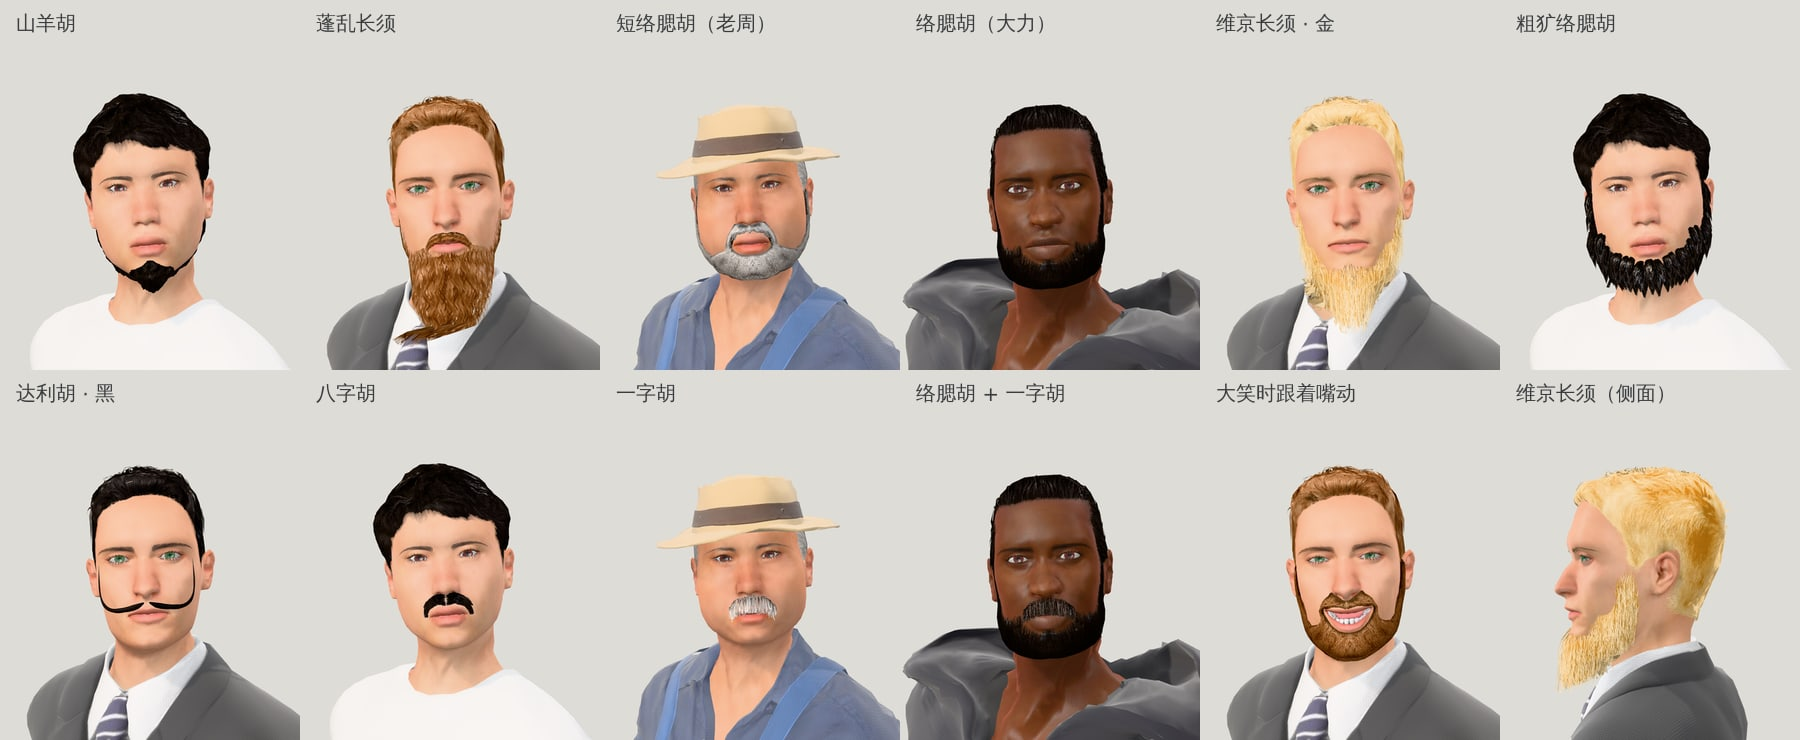
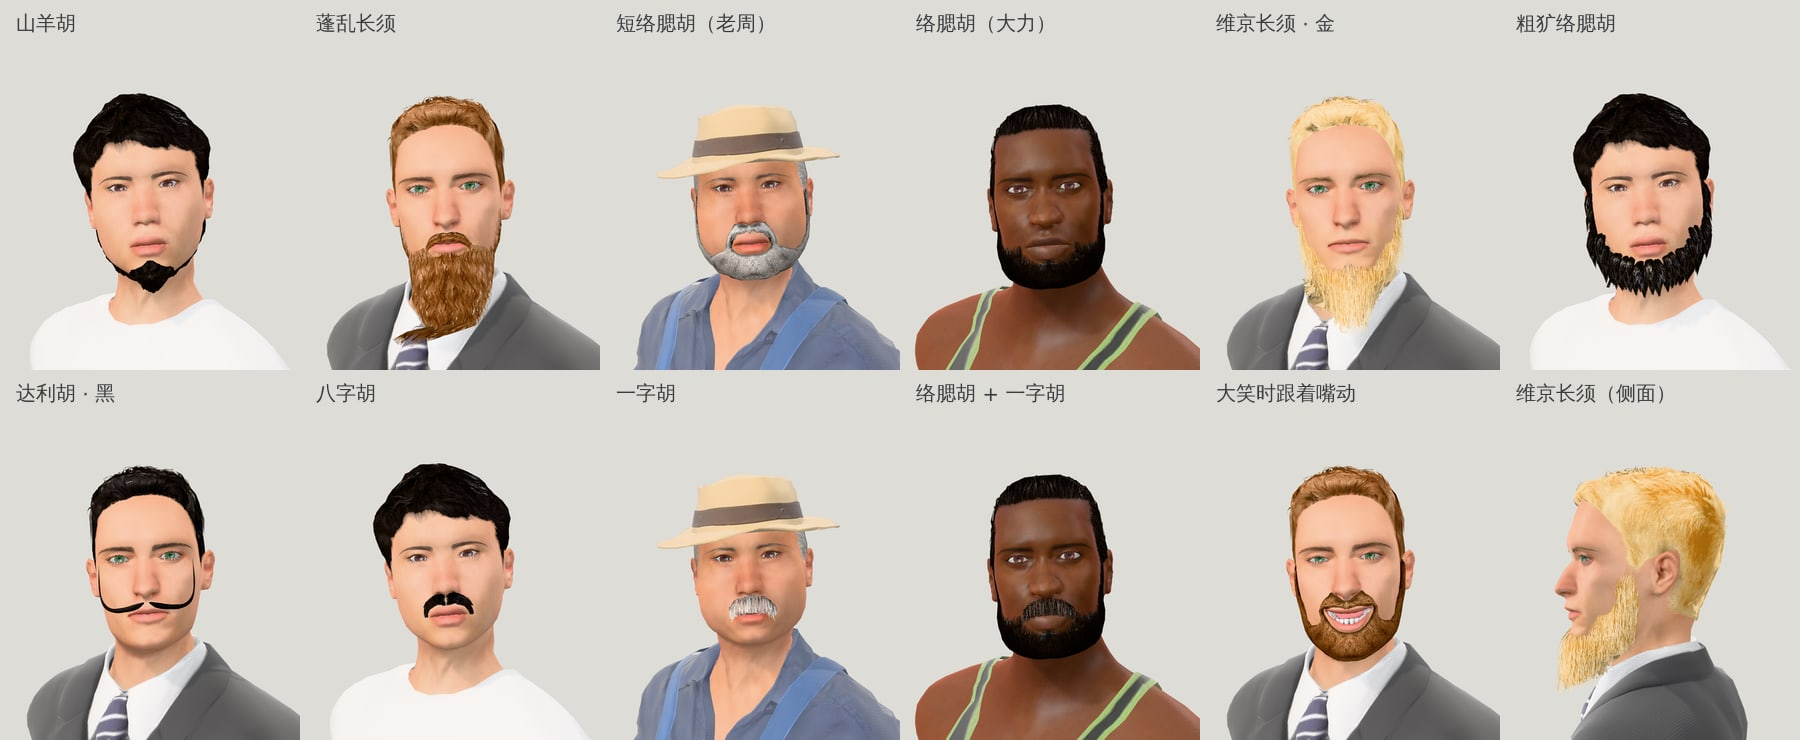
Creator: 大力 wears the tank top by default
The fitness-coach preset now wears the athletic tank top instead of the
open zip hoodie (the hoodie stays in the wardrobe). The hoodie sheet in
the men's clothes preview asks for it explicitly; README's triangle
range for the presets is 42,072 - 57,024 now. Previews that show 大力
regenerated.

Claude-Session: https://claude.ai/code/session_0144Myy6e38g8r8YvUr92puP

Changed region(s): [[0.4978, 0.8392, 0.6844, 1.0], [0.4978, 0.3419, 0.6844, 0.4973]]

diff --git a/viewer/creator.html b/viewer/creator.html
@@ -397,7 +397,7 @@ const PRESETS = [
   { name: '小满', note: '齐耳短发，粉 T 恤热裤', s: { sex: 'f', her: { mom: 4, dad: 4, shape: 0.3, skin: 0.4 }, body: { age: 22, height: 0.35, weight: 0.4 }, feat: { eye_s: 0.3, face_round: 0.3 }, look: { hair: 'bob02', hairColor: '#4a3020', blush: 0.45, lips: 0.4, lipColor: '#c9706a' }, outfit: 'female_casualsuit02', colors: { 'outfit/female_casualsuit02': ['#e3a7b4', ''], 'shoes/shoes05': ['', '', '#f2f0eb'] }, shoes: 'shoes05' } },
   { name: '老周', note: '平头，短络腮胡，微胖，衬衫配工装背带裤，渔夫帽', s: { sex: 'm', her: { mom: 0, dad: 0, shape: 0.7, skin: 0.6 }, body: { age: 58, height: 0.45, weight: 0.75, muscle: 0.4 }, feat: { face_fat: 0.4, cheek_v: 0.3 }, look: { hair: 'short04', hairColor: '#8f8a85', beard: 0.35, beardStyle: 'sigmund', aging: 0.6 }, outfit: '', top: 'm_shirt', bottom: 'm_overalls', shoes: 'shoes01', hat: 'fishing_hat', colors: { 'hat/fishing_hat': ['#c2a77d'], 'bottom/m_overalls': ['#3c5a85'] }, anim: 'idle_talking' } },
   { name: '安娜', note: '长直发，酒红连衣裙', s: { sex: 'f', her: { mom: 1, dad: 5, shape: 0.35, skin: 0.3 }, body: { age: 29, height: 0.6, weight: 0.4 }, feat: { cheek_b: 0.3, eye_tilt: 0.2 }, look: { hair: 'long01', hairColor: '#c08a52', eye: 'lightblue', lips: 0.6, lipColor: '#9b3b45', shadow: 0.4, liner: 0.6 }, outfit: 'dress_wine', colors: { 'outfit/dress_wine': ['#5e1520'] }, shoes: 'shoes03', anim: 'walk_formal' } },
-  { name: '大力', note: '健身教练，络腮胡，连帽卫衣配短裤、跑鞋', s: { sex: 'm', her: { mom: 2, dad: 7, shape: 0.6, skin: 0.6 }, body: { age: 32, height: 0.75, weight: 0.6, muscle: 1, proportions: 0.8 }, bmods: { shoulder: 0.4, vshape: 0.5 }, feat: { jaw_b: 0.4 }, look: { hair: 'short04', hairColor: '#100d0b', beard: 0.5, beardStyle: 'full' }, outfit: '', top: 'hoodie', bottom: 'shorts', shoes: 'runners' } },
+  { name: '大力', note: '健身教练，络腮胡，运动背心配短裤、跑鞋', s: { sex: 'm', her: { mom: 2, dad: 7, shape: 0.6, skin: 0.6 }, body: { age: 32, height: 0.75, weight: 0.6, muscle: 1, proportions: 0.8 }, bmods: { shoulder: 0.4, vshape: 0.5 }, feat: { jaw_b: 0.4 }, look: { hair: 'short04', hairColor: '#100d0b', beard: 0.5, beardStyle: 'full' }, outfit: '', top: 'tank_top', bottom: 'shorts', shoes: 'runners' } },
   { name: '阿月', note: '马尾，运动装', s: { sex: 'f', her: { mom: 3, dad: 3, shape: 0.45, skin: 0.5 }, body: { age: 24, height: 0.5, weight: 0.35, muscle: 0.65 }, look: { hair: 'ponytail01', hairColor: '#2b1d14', blush: 0.3 }, outfit: 'female_sportsuit01', colors: { 'outfit/female_sportsuit01': ['#8fb7d9', ''] }, shoes: 'shoes06', anim: 'jog_fwd' } },
   { name: '马克', note: '黑西装，短发', s: { sex: 'm', her: { mom: 5, dad: 1, shape: 0.6, skin: 0.4 }, body: { age: 38, height: 0.7, weight: 0.5 }, feat: { chin_p: 0.25, nose_hump: 0.2 }, look: { hair: 'short01', hairColor: '#6b4428', beard: 0.25, eye: 'green' }, outfit: 'male_elegantsuit01', shoes: 'shoes03' } },
   { name: '晴子', note: '麻花辫，红色旗袍', s: { sex: 'f', her: { mom: 4, dad: 0, shape: 0.4, skin: 0.5 }, body: { age: 21, height: 0.4, weight: 0.45 }, feat: { eye_s: 0.2, nose_tip: 0.2 }, look: { hair: 'braid01', hairColor: '#8a5a33', blush: 0.5, lips: 0.35, lipColor: '#d98a7c' }, outfit: 'qipao', shoes: 'ballet_flats', anim: 'dance' } },

diff --git a/scripts/creator-previews.js b/scripts/creator-previews.js
@@ -194,7 +194,7 @@ try {
   await grid(mw, 8, 300, 520, path.join(out, 'creator-clothes-men.jpg'), { labels: men.map((c) => c[2]) });
   // 男装（二）：MakeHuman 社区资源包里的男装、鞋、帽子；卫衣、毛衣、开衫男女都能穿（最后一排有两格女生）
   const men2 = [
-    ['men2-0', 'preset=4', '连帽卫衣 · 休闲短裤 · 跑鞋'],
+    ['men2-0', 'preset=4&top=hoodie', '连帽卫衣 · 休闲短裤 · 跑鞋'],
     ['men2-1', 'preset=0&top=sweater_grey&bottom=worn_jeans&shoes=chelsea&hat=beanie', '粗针毛衣 · 做旧牛仔裤 · 毛线帽'],
     ['men2-2', 'preset=2&top=polo&bottom=wool_pants&shoes=chelsea&hat=newsboy', '报童帽 · Polo 衫 · 羊毛西裤'],
     ['men2-3', 'preset=0&top=shirt_casual&bottom=board_shorts&shoes=slipons', '休闲衬衫 · 沙滩短裤 · 一脚蹬'],

diff --git a/README.md b/README.md
@@ -2279,7 +2279,7 @@ GTA 的模型和贴图是 Rockstar 的版权，这里一个都没用，照着做
 
 ### 数字
 
-- 身体 26,756 个三角形；八个预设角色穿戴齐全是 42,072 ~ 66,220 个三角形（被衣服盖住的身体面不画；界面左下角实时显示；最多的是穿连帽卫衣的大力，卫衣一件就近两万）。
+- 身体 26,756 个三角形；八个预设角色穿戴齐全是 42,072 ~ 57,024 个三角形（被衣服盖住的身体面不画；界面左下角实时显示；最多的是穿旗袍、梳麻花辫的晴子；连帽卫衣一件就近两万，大力换上它是 66,220）。
 - 拖一下滑杆（加形变、算法线、重新贴衣服和头发、叠穿防穿插、重算关节、重新绑定）约 30 ~ 60ms。
 - 数据一共 77MB（`viewer/human/`）：人体和形变 4.3MB、动作 0.5MB、195 个代理网格 20MB、490 张 WebP 贴图 52MB
   （皮肤 2048²，头发 1024² ~ 2048²，胡子 512² ~ 1024²，衣服 512² ~ 2048²，虹膜、头发的法线图 1024²，头发的流向图 512²，衣服和鞋配色的权重图 512² ~ 1024²）。第一次打开只下载当前这个人用到的，约 7MB，换发型、换衣服时再按需下载。
